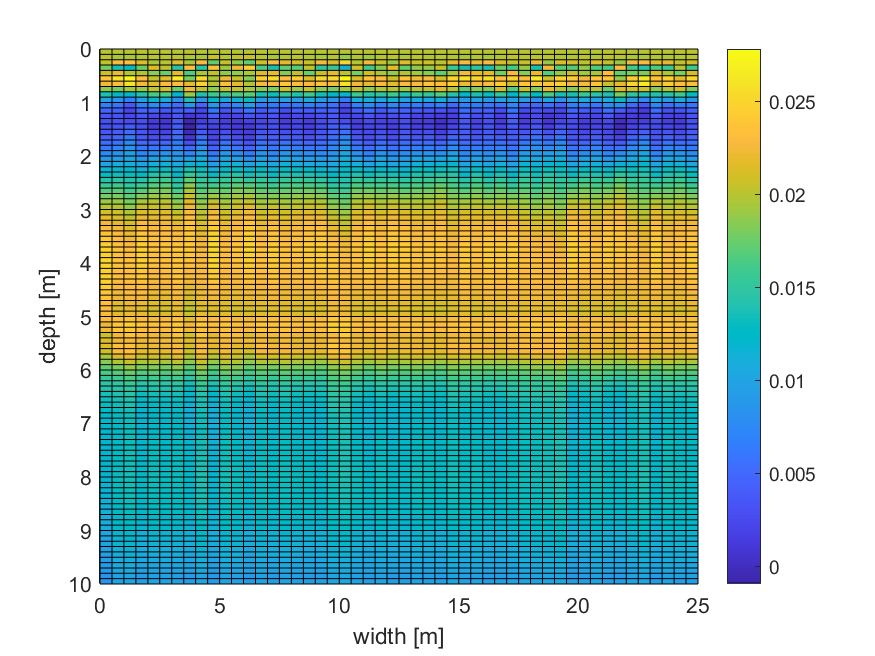
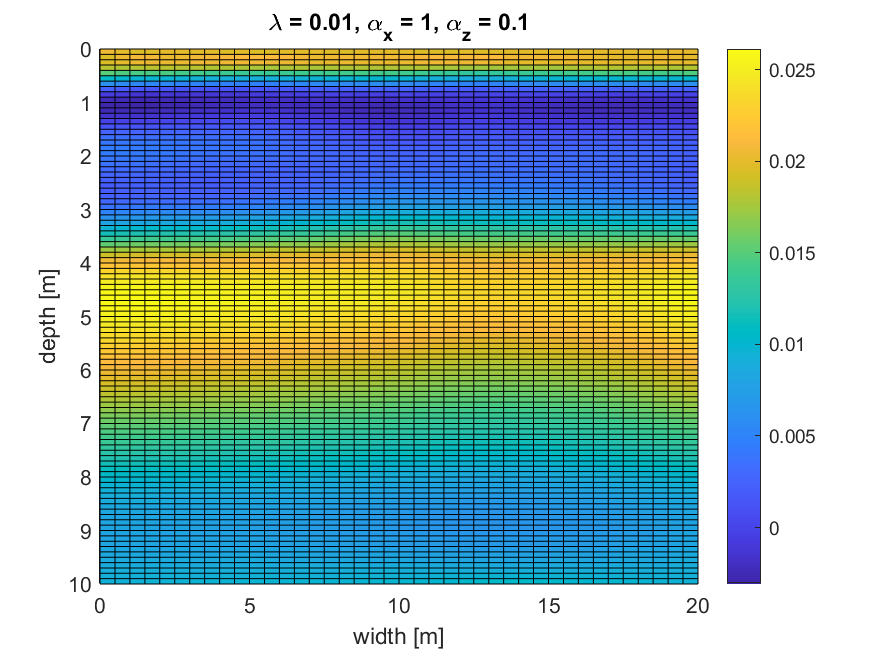
upgrade Dx Dz

diff --git a/maltab_models/2D-notfinished/Inversion2D.m b/maltab_models/2D-notfinished/Inversion2D.m
@@ -1,35 +1,31 @@
 % simple 1D inversion of FDEM data acquired over a layered Earth using
 % multiple coil separations and both vertical and horizontal dipoles
 
-clear; close all; clc; tic
+clear; clc; tic
 tic
 % load the dataset
 load data2D
 
-xlog = unique(data(:,4));
-ztop = 0:0.1:10; % vert
+xlog = unique(data(:,4)); % horizontal size of the model
+ztop = 0:0.1:10; % vertical size of the model
 
-nx = length(xlog);
-nz = length(ztop);
+nx = length(xlog); % number of discretization layers horizontal
+nz = length(ztop); % number of discretization layers vertical
 
-% model parameters
-sigma_a = data(:, 1);
-nsteps = length(unique(data(:, 4)));
+ndata = size(data,1); % number of sigma_a
 
 % noise
-for i = 1:length(sigma_a)
-    sigma_a(i) = sigma_a(i)+normrnd(0,1)*5e-6;
-end
+% Gaussian noise with standard deviation of X% of average data value
+sigma_a = data(:, 1);
+sigma_a = sigma_a + 0.01*mean(abs(sigma_a))*randn(size(sigma_a));
 data(:, 1) = sigma_a;
 
-ndata_p = size(data(data(:, 4) == 1), 1);
-ndata = size(data,1);
-nlay = length(ztop);
+ndata_p = size(data(data(:, 4) == 1), 1); % select data for each measurment point
 
-G_stack = cell(1, nlay);
+G_stack = cell(1, nz); % predefine the list that will contain all 1D G marix
 
-for j = 1:nsteps
-    G_prov = zeros(ndata_p, nlay);   % initialize W matrix
+for j = 1:nx
+    G_prov = zeros(ndata_p, nz);   % initialize W matrix
     for i=1:size(G_prov, 1)          % populate the matrix row-by-row
         R = weightEM2D(ztop, data(i,2), data(i,3));
         G_prov(i, :) = R;
@@ -37,28 +33,30 @@ for j = 1:nsteps
     G_stack{j} = G_prov;
 end
 
-G = blkdiag(G_stack{:});
+G = sparse(blkdiag(G_stack{:})); % stack, blockdiag and sparse
 
-% set parameters for the inversion
+% set parameters for the regularization
+% JI: alphax should generally be much bigger than alphaz for layered media
 alphax = 1; % weight on model smoothness in x-direction
-alphaz = 1; % weight on model smoothness in z-direction
+alphaz = 0.1; % weight on model smoothness in z-direction
 
 % calculate data and model weighting matrices
 [Dx,Dz] = smoothweightEM2D(nx,nz);
 Wm = alphax*(Dx'*Dx) + alphaz*(Dz'*Dz);
 
-% inversion
-lamb = 1e-8;
 
+% inversion
+lamb = 1e-2;
 A = G'*G + Wm*lamb; 
 b = G'*data(:, 1);
-
-m = cgs(A, b, 1e-10, 1e2);
-m = reshape(m, [], nsteps);
+m = cgs(A, b, 1e-10, 1000);
+m = reshape(m, [], nx);
 
 toc
+
 figure()
 inv = pcolor(xlog, ztop, m);
+title(['\lambda = ' num2str(lamb) ', \alpha_x = ' num2str(alphax) ', \alpha_z = ' num2str(alphaz)]) 
 ylabel('depth [m]')
 xlabel('width [m]')
 set(gca, 'YDir','reverse')

diff --git a/maltab_models/2D-notfinished/CreateData.m b/maltab_models/2D-notfinished/CreateData.m
@@ -2,17 +2,20 @@ clear, close, clc,
 
 tic
 % initial parameters
-xlog = 0:0.5:25; %[m]
-nlay = length(xlog);
-sig = repmat([20e-3; 1e-3; 20e-3; 10e-3], 1, nlay);
-ztop = repmat([0; 1; 2; 8], 1, nlay);
-coilsep = repmat(0.1:0.1:10, nlay, 1)';
-ori = repmat([0 1], length(xlog), size(coilsep, 1)/2)';
+xlog = 0:0.5:20; %[m] horizontal discretization
+nmeasure = length(xlog); % number of horizontal measurments
+ztop = repmat([0; 0.5; 3; 7], 1, nmeasure); % top layer vertical coordinate
 
-data = [];
+sig = repmat([20e-3; 1e-3; 20e-3; 10e-3], 1, nmeasure); % true model map
+
+coilsep = repmat(0.1:0.1:10, nmeasure, 1)'; % coilseparations
+ori = repmat([0 1], length(xlog), size(coilsep, 1)/2)'; % orientation of the dipole (0 = vertical, 1 = horizontal)
+
+data = []; % preset data matrix
 
 for i = 1:length(xlog)
-    data = [data; forwardEM2D(sig(:, i), ztop(:, i), coilsep(:, i), ori(:, i), xlog(i))]; % generate datas
+    % generate datas in a matrix that contains physical properties
+    data = [data; forwardEM2D(sig(:, i), ztop(:, i), coilsep(:, i), ori(:, i), xlog(i))];
 end
 
 % save datas

diff --git a/maltab_models/2D-notfinished/smoothweightEM2D.m b/maltab_models/2D-notfinished/smoothweightEM2D.m
@@ -13,11 +13,15 @@ function [Dx,Dz] = smoothweightEM2D(nx,nz)
 % by James Irving
 % June 2019
 
-ncells = nx*nz;
-weights = repmat([1 -2 1],ncells,1);
-Dx = spdiags(weights,[-nx 0 nx],ncells,ncells);
-Dx(1:nx,:) = 0;
-Dx(((nz-1)*nx+1):nx*nz,:) = 0;
+ncells = nx*nz; % nuber of cell
+weights = repmat([1 -2 1],ncells,1); % preset the matrix
+
+% vertical smoothness
 Dz = spdiags(weights,[-1 0 1],ncells,ncells);
-Dz(1:nx:end,:) = 0;
-Dz(nx:nx:end,:) = 0;
+Dz(1:nz:end,:) = 0; % = 0 avoiding artefacts
+Dz(nz:nz:end,:) = 0;
+
+% horizontal smoothness
+Dx = spdiags(weights,[-nz 0 nz],ncells,ncells);
+Dx(1:nz,:) = 0; % = 0 avoiding artefacts
+Dx(((nx-1)*nz+1):nx*nz,:) = 0;
